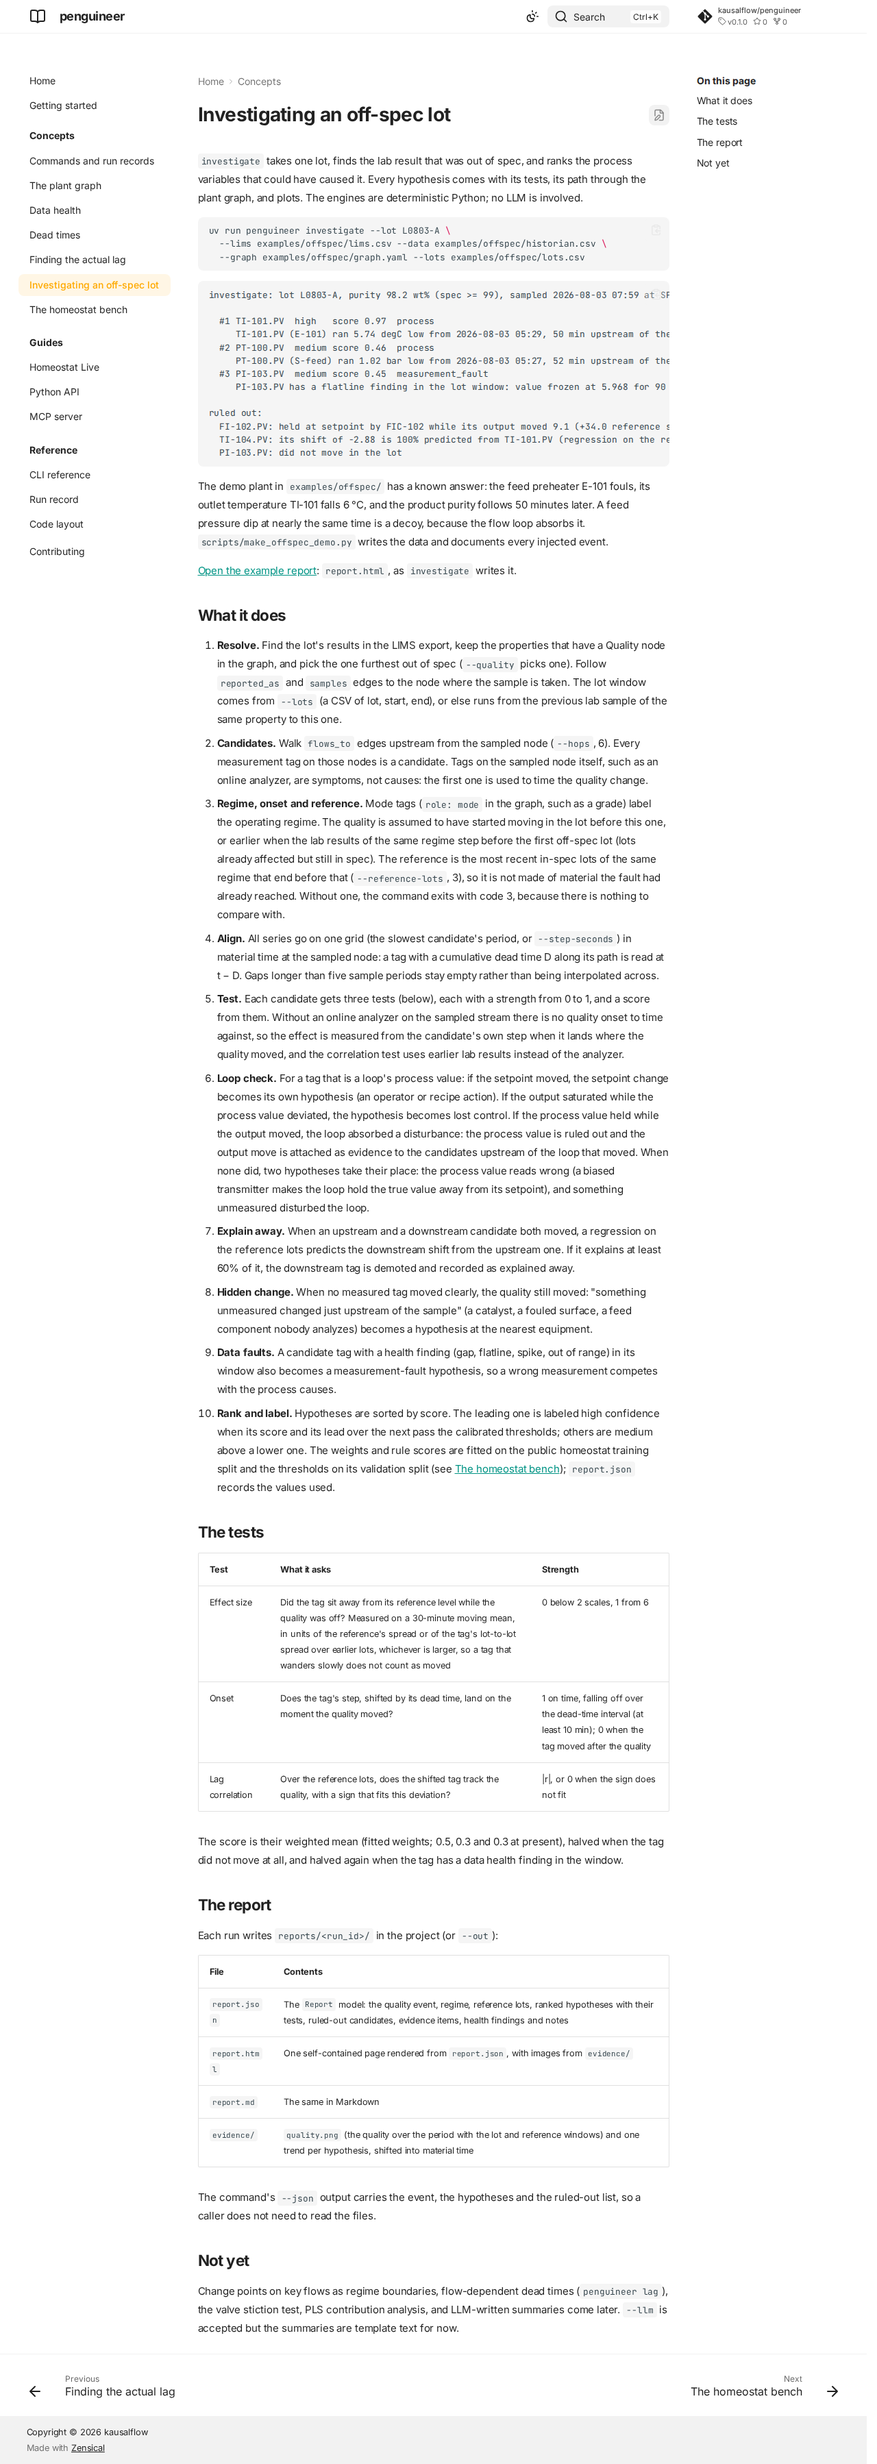
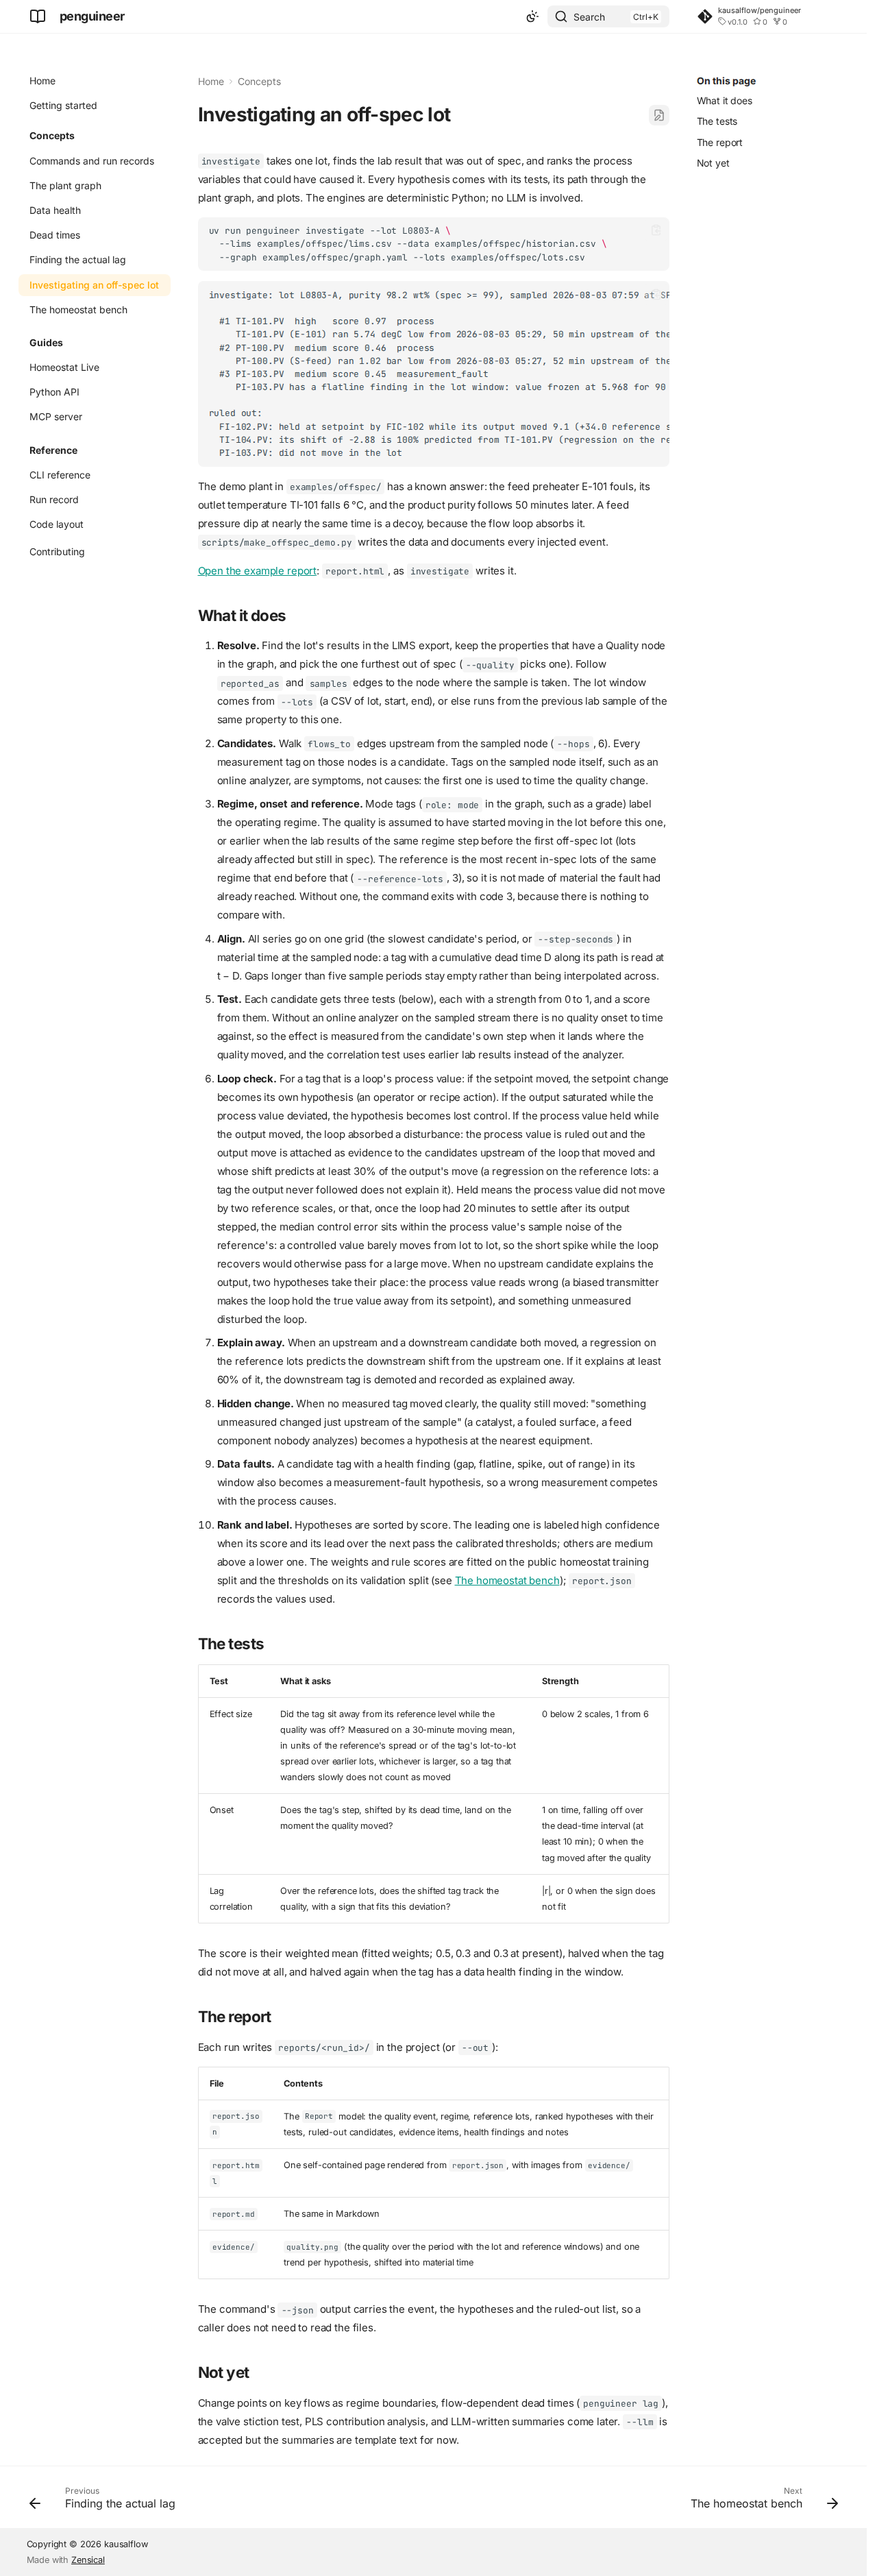
Deploying to gh-pages from @ kausalflow/penguineer@33ab89fb75f7af28741ad44135c9062d9b23672f 🚀

diff --git a/concepts/bench/index.html b/concepts/bench/index.html
@@ -1201,10 +1201,10 @@
 </span></code></pre></div>
 <div class="language-text highlight"><pre><span></span><code><span id="__span-1-1"><a id="__codelineno-1-1" name="__codelineno-1-1" href="#__codelineno-1-1"></a>bench homeostat: 85 validation scenarios (11 plants skipped: no lot off spec)
 </span><span id="__span-1-2"><a id="__codelineno-1-2" name="__codelineno-1-2" href="#__codelineno-1-2"></a>
-</span><span id="__span-1-3"><a id="__codelineno-1-3" name="__codelineno-1-3" href="#__codelineno-1-3"></a>  hit@1                 88%
-</span><span id="__span-1-4"><a id="__codelineno-1-4" name="__codelineno-1-4" href="#__codelineno-1-4"></a>  hit@3                 95%  (95% 89% to 98%)
+</span><span id="__span-1-3"><a id="__codelineno-1-3" name="__codelineno-1-3" href="#__codelineno-1-3"></a>  hit@1                 89%
+</span><span id="__span-1-4"><a id="__codelineno-1-4" name="__codelineno-1-4" href="#__codelineno-1-4"></a>  hit@3                 96%  (95% 90% to 99%)
 </span><span id="__span-1-5"><a id="__codelineno-1-5" name="__codelineno-1-5" href="#__codelineno-1-5"></a>  wrong-confident rate  5%
-</span><span id="__span-1-6"><a id="__codelineno-1-6" name="__codelineno-1-6" href="#__codelineno-1-6"></a>  data-fault catch rate 75%
+</span><span id="__span-1-6"><a id="__codelineno-1-6" name="__codelineno-1-6" href="#__codelineno-1-6"></a>  data-fault catch rate 95%
 </span><span id="__span-1-7"><a id="__codelineno-1-7" name="__codelineno-1-7" href="#__codelineno-1-7"></a>
 </span><span id="__span-1-8"><a id="__codelineno-1-8" name="__codelineno-1-8" href="#__codelineno-1-8"></a>  fault type              n  hit@1  hit@3
 </span><span id="__span-1-9"><a id="__codelineno-1-9" name="__codelineno-1-9" href="#__codelineno-1-9"></a>  catalyst_loss          12    92%   100%
@@ -1213,7 +1213,7 @@
 </span><span id="__span-1-12"><a id="__codelineno-1-12" name="__codelineno-1-12" href="#__codelineno-1-12"></a>  feed_property          12    83%   100%
 </span><span id="__span-1-13"><a id="__codelineno-1-13" name="__codelineno-1-13" href="#__codelineno-1-13"></a>  reactor_fouling        12    83%    83%
 </span><span id="__span-1-14"><a id="__codelineno-1-14" name="__codelineno-1-14" href="#__codelineno-1-14"></a>  reactor_sensor_bias    12    92%    92%
-</span><span id="__span-1-15"><a id="__codelineno-1-15" name="__codelineno-1-15" href="#__codelineno-1-15"></a>  reactor_sensor_drift    8    88%    88%
+</span><span id="__span-1-15"><a id="__codelineno-1-15" name="__codelineno-1-15" href="#__codelineno-1-15"></a>  reactor_sensor_drift    8   100%   100%
 </span><span id="__span-1-16"><a id="__codelineno-1-16" name="__codelineno-1-16" href="#__codelineno-1-16"></a>  reactor_setpoint       12    92%   100%
 </span></code></pre></div>
 <p>The first run generates the scenarios, which takes a few minutes per fault type while Homeostat compiles each plant; later runs reuse them from <code>.penguineer/bench/</code> in the project. <code>--bundles</code> runs on bundles you already have, and <code>bench.json</code> and <code>scenarios.csv</code> in the run folder hold every scenario's result.</p>
@@ -1341,7 +1341,7 @@
 </tr>
 </tbody>
 </table>
-<p>Rates carry a 95% Wilson interval in <code>bench.json</code>: at 85 scenarios an observed 95% is anything from 89% to 98%.</p>
+<p>Rates carry a 95% Wilson interval in <code>bench.json</code>: at 85 scenarios an observed 96% is anything from 90% to 99%.</p>
 <h2 id="splits-and-calibration">Splits and calibration<a class="headerlink" href="#splits-and-calibration" title="Permanent link">&para;</a></h2>
 <table>
 <thead>
@@ -1369,11 +1369,11 @@
 </tr>
 </tbody>
 </table>
-<p><code>scripts/fit_calibration.py</code> searches the weights and rule scores on the train split (maximizing hit@3, then hit@1), then chooses the confidence thresholds on validation so that the wrong-confident rate stays at or under 5%. The result ships as <code>src/penguineer/engines/calibration.json</code>, and every <code>report.json</code> names the splits and the Homeostat version it was fitted with.</p>
+<p><code>scripts/fit_calibration.py</code> searches the weights and rule scores on the train split (maximizing hit@3, plus half of hit@1 and half of the data-fault catch rate), then chooses the confidence thresholds on validation so that the wrong-confident rate stays at or under 5%. The result ships as <code>src/penguineer/engines/calibration.json</code>, and every <code>report.json</code> names the splits and the Homeostat version it was fitted with.</p>
 <h2 id="what-the-numbers-do-not-say">What the numbers do not say<a class="headerlink" href="#what-the-numbers-do-not-say" title="Permanent link">&para;</a></h2>
 <ul>
 <li>The bench is one plant family. A real plant has more tags, more loops and other faults, so treat these numbers as an upper bound, not a promise.</li>
-<li>The data-fault catch rate (75%, 15 of 20) is under its 90% gate. In three of the five misses the leading hypothesis names TT-301 but calls it a process change rather than a wrong reading; one points at an unmeasured change in R-301 and one at a feed flow.</li>
+<li>The data-fault catch rate is 95% (19 of 20) on validation and 100% (21 of 21) on train, but 20 scenarios give a wide interval: 76% to 99%. The one miss is a small bias that started seven hours before the first off-spec lot, inside the newest reference lot (the lots in between ran another grade), so the loop output's move is partly in the reference and the leading hypothesis is an unmeasured change in R-301.</li>
 <li>The plant has no analyzer on the sampled stream, so the onset test never runs on the bench, and its weight is kept rather than fitted.</li>
 <li>The hidden split, and so the release gate, is not run in this repository.</li>
 </ul>

diff --git a/concepts/investigate/index.html b/concepts/investigate/index.html
@@ -1179,7 +1179,7 @@
 <li><strong>Regime, onset and reference.</strong> Mode tags (<code>role: mode</code> in the graph, such as a grade) label the operating regime. The quality is assumed to have started moving in the lot before this one, or earlier when the lab results of the same regime step before the first off-spec lot (lots already affected but still in spec). The reference is the most recent in-spec lots of the same regime that end before that (<code>--reference-lots</code>, 3), so it is not made of material the fault had already reached. Without one, the command exits with code 3, because there is nothing to compare with.</li>
 <li><strong>Align.</strong> All series go on one grid (the slowest candidate's period, or <code>--step-seconds</code>) in material time at the sampled node: a tag with a cumulative dead time D along its path is read at t − D. Gaps longer than five sample periods stay empty rather than being interpolated across.</li>
 <li><strong>Test.</strong> Each candidate gets three tests (below), each with a strength from 0 to 1, and a score from them. Without an online analyzer on the sampled stream there is no quality onset to time against, so the effect is measured from the candidate's own step when it lands where the quality moved, and the correlation test uses earlier lab results instead of the analyzer.</li>
-<li><strong>Loop check.</strong> For a tag that is a loop's process value: if the setpoint moved, the setpoint change becomes its own hypothesis (an operator or recipe action). If the output saturated while the process value deviated, the hypothesis becomes lost control. If the process value held while the output moved, the loop absorbed a disturbance: the process value is ruled out and the output move is attached as evidence to the candidates upstream of the loop that moved. When none did, two hypotheses take their place: the process value reads wrong (a biased transmitter makes the loop hold the true value away from its setpoint), and something unmeasured disturbed the loop.</li>
+<li><strong>Loop check.</strong> For a tag that is a loop's process value: if the setpoint moved, the setpoint change becomes its own hypothesis (an operator or recipe action). If the output saturated while the process value deviated, the hypothesis becomes lost control. If the process value held while the output moved, the loop absorbed a disturbance: the process value is ruled out and the output move is attached as evidence to the candidates upstream of the loop that moved and whose shift predicts at least 30% of the output's move (a regression on the reference lots: a tag the output never followed does not explain it). Held means the process value did not move by two reference scales, or that, once the loop had 20 minutes to settle after its output stepped, the median control error sits within the process value's sample noise of the reference's: a controlled value barely moves from lot to lot, so the short spike while the loop recovers would otherwise pass for a large move. When no upstream candidate explains the output, two hypotheses take their place: the process value reads wrong (a biased transmitter makes the loop hold the true value away from its setpoint), and something unmeasured disturbed the loop.</li>
 <li><strong>Explain away.</strong> When an upstream and a downstream candidate both moved, a regression on the reference lots predicts the downstream shift from the upstream one. If it explains at least 60% of it, the downstream tag is demoted and recorded as explained away.</li>
 <li><strong>Hidden change.</strong> When no measured tag moved clearly, the quality still moved: "something unmeasured changed just upstream of the sample" (a catalyst, a fouled surface, a feed component nobody analyzes) becomes a hypothesis at the nearest equipment.</li>
 <li><strong>Data faults.</strong> A candidate tag with a health finding (gap, flatline, spike, out of range) in its window also becomes a measurement-fault hypothesis, so a wrong measurement competes with the process causes.</li>
